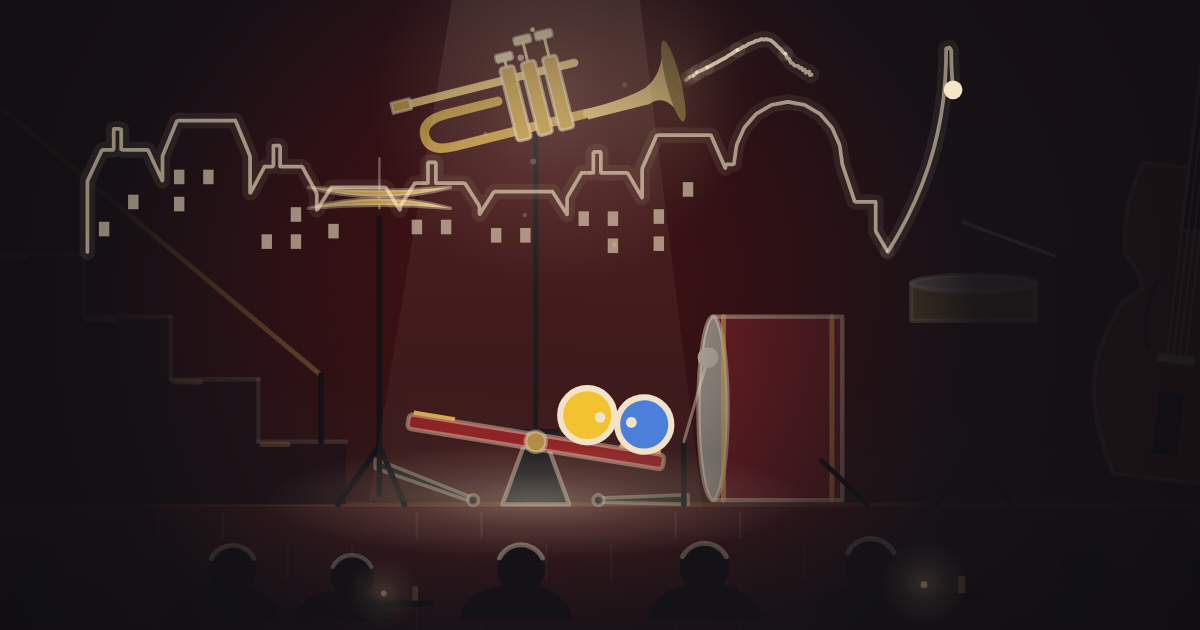
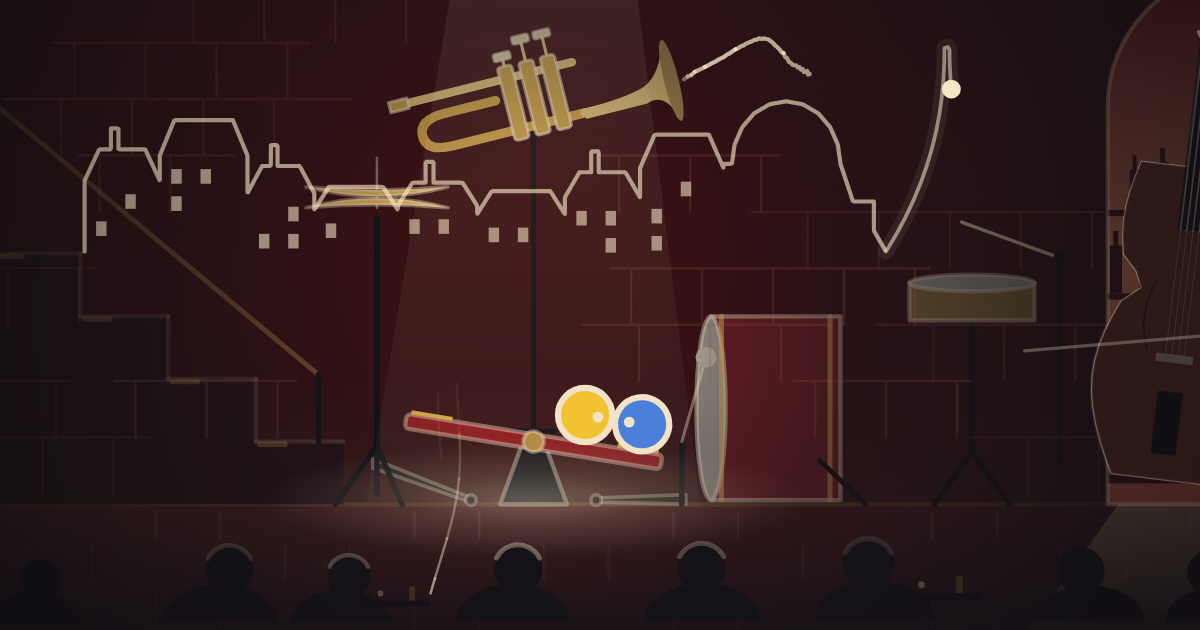
docs(epilogue): SEBS.md has round 68, the fullness pass's first half; the share card made again

diff --git a/apps/rube/src/shows/versions/la-la-land/SEBS.md b/apps/rube/src/shows/versions/la-la-land/SEBS.md
@@ -31,17 +31,17 @@ Every piece is new, and so is every place. Nothing is drawn from Machine's world
 | 61.78 | The hush, the kiss | The orchestra drops out. He floats down off the keys to her while the room goes dark round a pool of light that comes down with him, and they touch in the middle of it on 65.515 as it comes back in. The room lights up. They hop into a red glass cup at the tree's foot; the tree hoists them over its star (the star is the pulley), the cup tips them onto the string of bulbs, and they ride four swags across the ceiling, each lighting on its downbeat. Down the garland, out through the door into the snow as a curtain comes in. |
 | 90.21 | The theatre | Her one-woman show, and the full house the film's version never had: someone in every seat, the backs of their heads rimmed with the stage's light. He runs the theatre from the street in: the marquee blazes, he knocks the stage door open, rides the lift to the fly gallery, and his weight on the counterweight flies the curtain out. She plays in the spotlight, her window coming up behind her with the music, and the view through it passes through the day of her show on her moves: dawn on her roll, blue sky on her leap, dusk as she hops home, night and a moon while the house holds its breath. On the downbeat he is on his feet first, bouncing on the house's claps, and she hops with each row as it rises; the house rises row by row behind him, the paddles clap with the band, a rose lands at her feet, she bows, and more roses come from all over the house on its claps until the stage at her feet is strewn with them, and he leaps up beside her for the curtain call. The house goes to white. |
 | 133.35 | The white studio | A white sound stage, breathing in threes against the dream's 128 bpm. Painted cut-outs rise from the floor on hinges: a palm, radio towers, a round tower, a streetlamp. An old studio camera on its pedestal by the door's flat is shooting them, red light on and lens following him, and a special on the grid is struck on over each cut-out as it stands. The red stage door opens for them on rose light. |
-| 143.64 | Hollywood | The burst (`dream(165)`). A painted sky drops from the flies at the magic hour, banded indigo to magenta to coral to gold, with a setting sun glowing over the mountain's shoulder, a rose far ridge, the mountain shaded with painted contours, and long painted clouds; and colour floods in, the near hill dark in its own shadow with a coral rim along its crest and a hedge of chaparral at its foot: bougainvillea that bounce them, a chorus line in plumes and fringed skirts whose kicking legs kick in unison on the band's brass stabs, a road of the sunset's rose switchbacking up the hill with lamps lighting on the beats, palms painted along the mountain's foot and the observatory on the far ridge, searchlights, and a sign of nine white blocks lighting at the top of the number. Six accelerating hits (166.15 to 167.85), on which the sign turns from white to her yellow, a block a hit from the middle out, all gold on the last: her name in lights, without a letter. Then the lamps go out one by one. |
+| 143.64 | Hollywood | The burst (`dream(165)`). A painted sky drops from the flies at the magic hour, banded indigo to magenta to coral to gold, with a setting sun, a flat painted disc, going down over the mountain's shoulder, a rose far ridge, the mountain shaded with painted contours, and long painted clouds; and colour floods in, the near hill dark in its own shadow with a coral rim along its crest and a hedge of chaparral at its foot: bougainvillea that bounce them, a chorus line in plumes and fringed skirts whose kicking legs kick in unison on the band's brass stabs, a road of the sunset's rose switchbacking up the hill with lamps lighting on the beats, palms painted along the mountain's foot and the observatory on the far ridge, searchlights, and a sign of nine white blocks lighting at the top of the number. Six accelerating hits (166.15 to 167.85), on which the sign turns from white to her yellow, a block a hit from the middle out, all gold on the last: her name in lights, without a letter. Then the lamps go out one by one. |
 | 172 | The audition | Shadow play: a lit screen, and everything but the two of them is a black shape. She plays on a small stage; a desk lamp's arm, a pen and a jug answer her from the casting table; he watches from a chair at the side. The screen floods at the build, and the flooded screen flies out on its batten. |
 | 196 | The globe | An old globe turning in the dark, and a toy biplane on an arm carrying both of them from the Pacific to Europe, its route inked on the map behind it. It is uncovered as the audition's white screen flies out above it. Paris at night; the plane comes down by a red door. |
 | 214.88 | The Paris club | A vaulted red cellar on its own 122.8 bpm comb, and a full house: a row of patrons at the near tables, silhouettes along the foot of the picture with candles on their tables, nodding on the beat. He goes down the stair a step an eighth and lands on the band, which is one machine: a see-saw whose ends work the hi-hat and kick pedals. He bounces it for thirty landings while the trumpet's valves, the snare and the bass play along. Her premiere on the landing: flash guns on scissor arms fire on the beats, the balloon net lets go, and she comes down to ride the other end with him. |
-| 239.44 | The trumpet | The room goes dark but for one spot on the trumpet; its valves go down on the solo's notes, pitch-tracked from the recording, and the lamp flares on its biggest note. Each phrase goes out of the bell as a thread of warm light at the height of its notes, following the melody's contour and not its vibrato, drifting up into the dark and fading, so the solo is written in the air over the two of them; and once each phrase is played it comes down on the bell's open side and slides in under the horn, settling out of its improvised line into a stretch of a gold Paris skyline hung over the band, mansards and chimneys and a dome, its windows lighting as it settles. The last run, as she rolls down to him, draws the tower, foot to spire to foot. By the knock the whole city hangs in the dark; and as the iris opens on painted Paris, the gold line is still along its roofs and up its tower a moment, and goes out as the waltz begins. Through the solo the see-saw is a balance of two: in the solo's rests Mia inches toward him and the beam leans his way. On 264.719 he comes down hard and the beam slams over, and she rolls down it to him. An iris closes on them to a small circle and holds it through the silence; on the second knock (268.655, the loudest onset in the cue) it shuts. |
+| 239.44 | The trumpet | The room goes dark but for one spot on the trumpet; its valves go down on the solo's notes, pitch-tracked from the recording, and on its biggest note the spot's pool widens and brightens on the floor. Each phrase goes out of the bell as a thread of warm light at the height of its notes, following the melody's contour and not its vibrato, drifting up into the dark and fading, so the solo is written in the air over the two of them; and once each phrase is played it comes down on the bell's open side and slides in under the horn, settling out of its improvised line into a stretch of a gold Paris skyline hung over the band, mansards and chimneys and a dome, its windows lighting as it settles. The last run, as she rolls down to him, draws the tower, foot to spire to foot. By the knock the whole city hangs in the dark; and as the iris opens on painted Paris, the gold line is still along its roofs and up its tower a moment, and goes out as the waltz begins. Through the solo the see-saw is a balance of two: in the solo's rests Mia inches toward him and the beam leans his way. On 264.719 he comes down hard and the beam slams over, and she rolls down it to him. An iris closes on them to a small circle and holds it through the silence; on the second knock (268.655, the loudest onset in the cue) it shuts. |
 | 269 | Painted Paris | On the next hit (269.711) the iris opens on painted Paris in ultramarine: the quay, streetlamps, umbrellas opening on the waltz's ONE, a great street clock that strikes, a balloon seller. They waltz round each other, eye to eye, and each step leaves a ring of the lamps' gold spreading on the wet stones under them, the ONE of each bar strongest, so the quay carries a trail of where they have turned. |
 | 297.33 | The stars | The flats fly out, and up through a trap in the dark floor comes the machine of the night: a brass star projector, the kind a planetarium keeps, a lens-studded globe at each end of a tilted axis. It lights as they push off and float up beside it, and it turns geared to their waltz. Each star the melody lights (eleven of them) is thrown from its high globe on a thread of light and lights round them; they float close, in each other's arms. The camera goes far out on the rise, the two of them small under the whole turning sky, and comes in close through the quiet, the two of them filling the frame among the stars. Two broad soft cones of light sweep from its high globe as it turns, slowly while they float and fast in the whirl. It whirls with them up the swell while the sky wheels into star trails, and stops with them on the dip (336.62), where the planetarium's figure round them, a grand piano seen from above in fine gold line, is complete: it has drawn on through the waltz, a stretch for each star the melody lit, and is held through the touch (`piano-figure.ts`). A nebula lies along the galaxy's band, violet and rose and a little teal with a dark lane of dust, swelling as they rise into it. Everything is doubled in the dark glass. As the lights go its lamps go out, a beat before the dark, and the next place opens on another projector's lamp. |
 | 340.5 | The home movie | One star of the sky stays lit through the dark and is the lamp of a projector in a dark room; the camera goes into its picture. Their life on eight-millimetre film, in six shots joined by match cuts (the balls stay put and the world changes round them): the house and the pram, a first birthday with balloons, the beach and a yellow bucket, the pool and the diving board (she cheers him on from the deck), a field of flowers that open as he brushes them, the couch at night. Each shot is a family's film: a summer sky with clouds and birds over the outdoor ones, a tree, hedge and mailbox at the house, bunting and the lemonade table at the party, an umbrella and a sailboat at the beach, a lounger and a rubber ring at the pool, trees along the far hills and butterflies in the field; and at home the room is theirs, his upright piano against the wall, and on it the pictures of the dream's life, their wedding, her show's poster, the two of them in Paris. It looks like eight-millimetre: the picture weaves in the gate frame by frame (the camera carries the weave, so the balls weave too), the stock is faded and warm, its exposure breathes, and scratches run down it now and then. The film runs out, and the bare white of the empty gate fills the frame. |
 | 395.3 | The drive | Out of the gate's white, a freeway jam at night (the film's first scene, rhymed), the cars creeping up in waves on the notes, their brake lights red on the deck. The city beyond is cool towers under a deep sky with its glow on the haze, warm windows and red beacons; and across the basin, under their jam, another freeway is moving, a river of tail lights one way and headlights the other. The exit ramp, the street, sodium lamps coming on ahead of them, and a blue neon arrow that buzzes on over a door. |
-| 423.4 | Seb's, the dream's last room | The same club, warm with the dream's rose, and full: someone on every chair and at the bar, who fade with the rose at the waking. They cross to her table; on the stage the piano plays itself. As they lean in the room goes down round them to one pool of light, the way a pool of light found her there at the start, and they kiss on 450.107; it lets them go as he leaves her side. The rose drains out of the walls and the light, the room is its cold blue again, and he drifts back up to the keys, landing on the last chord (453.73): the dark and the grey close in round him to a spotlight of the dream's colour, the way the dream began at 39, and it shuts. The chord rings on him, and the picture cuts to her table: her eyes stay on the empty seat beside her, and David comes back from the bar and sits down in it. |
-| 453.73 | Seb's, now | Silence. David has come back to her table. They go to the door, he out onto the pavement, she as far as the doorway, where she stands framed in the night outside, the neon's blue low in it. In close shots cut against each other, as in the film: she turns back from the doorway, he looks up, she smiles, he nods. The End comes in (464) and she is gone; the door shuts on its note (467.866). The band's lamps come up behind him (471.546); he nods the count-in; on the band's first hit (478.05) the stage blazes and the camera draws back out of the club, over its roof, to the whole city of stars, where searchlights sweep. The credits come up in the sky. On The End's orchestra (496.27) the searchlights flare, the city brightens with the swell and the glow of it on the haze warms with the orchestra, holding through the last chord and settling as it dies away, the observatory on its ridge lights, the sign on the far hills, pale over the city at the start, lights in her yellow a block at a time from the middle out, as it did at the top of the Hollywood number (her name in lights: what the dream gave her, she has), their constellation from among the stars comes out over the city star by star, and once the last is out the gold piano from the dip draws itself round them again, plays The End's last chord (its keys light and its stars flare), and holds to the last frame, and the beams cross on the last chord. |
+| 423.4 | Seb's, the dream's last room | The same club, warm with the dream's rose, and full: someone on every chair and at the bar, who fade with the rose at the waking. They cross to her table; on the stage the piano plays itself. As they lean in the room goes down round them to one pool of light, the way a pool of light found her there at the start, and they kiss on 450.107; it lets them go as he leaves her side. The rose drains out of the walls and the light, the room is its cold blue again, and he drifts back up to the keys, landing on the last chord (453.73): the dark and the grey close in round him to a spotlight of the dream's colour, the way the dream began at 39, and it shuts. The chord rings on him in the dark, and the dark opens again, an iris, on her table: her eyes stay on the empty seat beside her, and David comes back from the bar and sits down in it. |
+| 453.73 | Seb's, now | Silence. David has come back to her table. They go to the door, he out onto the pavement, she as far as the doorway, where she stands framed in the night outside, the neon's blue low in it. In close shots cut against each other, as in the film: she turns back from the doorway, he looks up, she smiles, he nods. The End comes in (464) and she is gone; the door shuts on its note (467.866). The band's lamps come up behind him (471.546); he nods the count-in; on the band's first hit (478.05) the stage blazes and the camera draws back out of the club, over its roof, to the whole city of stars, where searchlights sweep. The credits come up in the sky. On The End's orchestra (496.27) the searchlights open up, the city brightens with the swell and the glow of it on the haze warms with the orchestra, holding through the last chord and settling as it dies away, the observatory on its ridge lights, the sign on the far hills, pale over the city at the start, lights in her yellow a block at a time from the middle out, as it did at the top of the Hollywood number (her name in lights: what the dream gave her, she has), their constellation from among the stars comes out over the city star by star, and once the last is out the gold piano from the dip draws itself round them again, plays The End's last chord (its keys light and its stars step up), and holds to the last frame, and the beams cross on the last chord. |
 
 ## The music
 
@@ -128,7 +128,7 @@ Each part is handed a slot (the show time the ball arrives, the time it must lea
   - `camera.ts`: the director, a monotone cubic through the parts' keys.
   - `music.ts`: the clock read from the onset file. `hits.ts`: every strike, gathered.
   - `worlds.ts`: the cast and each place's palette. `city.ts`: the city of stars. `credits.ts`: the end credits.
-  - The parts, one folder a place: `club/` (the piano, the room, the opening, the finale; `geometry.ts` fixes the piano's numbers), `liptons/`, `theatre/`, `studio/`, `audition/`, `paris/`, `night/`, `movie/`.
+  - The parts, one folder a place: `club/` (the piano, the room, its people, the opening, the finale; `geometry.ts` fixes the piano's numbers), `liptons/`, `theatre/`, `studio/`, `audition/`, `paris/`, `night/`, `movie/`.
 - **Shared infra**, byte for byte the same as Liftoff's (#88), so either can land first:
   - `Framing.angle` and the roll in `drawWorld`, which this take does not use;
   - `Performance.titles` and the page's words layer, for the credits;
@@ -561,3 +561,49 @@ Watching again after Round 66, the first kiss stood out as the weakest of the sh
 - **The share card, made again.** The card a link to the show unfurls with (`public/shows/la-la-land/opus5-5.png`, its frame at 266.15) was older than Round 64, and still had the trumpet's beads and the grain that round cut. It is the show's own frame again, with the smoothed thread (Round 66): only this take's card; the Shows page's own card uses another take's.
 - **Checked:** the full `check:shows` (every star lit in the picture, the piano whole at the dip and over the city), and frame cost in Chrome on the GPU (1600 by 900 at 2×): 1 to 3 ms a frame through the hush and the stars.
 
+
+## Round 68: the fullness pass, first half
+
+Stephen's brief: fuller and more impressive, from substance and not gloss. Every place is filled with what would be in it, in layers that move at their own speeds; nothing stands still; the light comes from somewhere and falls on something; the final third is the busiest; and the shine the show still had is cut. The song, its clock, the lanes and every strike are untouched.
+
+How it was judged: ten frames evenly spaced, then a frame every four seconds, and a meter run over the whole show every two seconds that counts the share of the 16 to 9 picture that is both flat (no detail in a block) and unchanging over a quarter second. Before the round, 40 of its 255 samples had more than a third of the picture dead; after it, 11, of which 6 are covers (the cloth, the white, the iris, the dark with one star, the empty gate) and the rest are the dark start at her table (23, 25), the trumpet's spot at 243 and 245, and her 0.7 s close shot in the doorway (463).
+
+**The room as it is (0 to 39.65, 453.73 to 510).** Seb's is a working club late at night, in its cold grade: a bartender polishing and moving along the bar, a waiter with his tray, a couple at the middle table, a man smoking at the bar, people who sip now and then and glance at the stage. Framed photographs of the greats hang between the sconces (shapes, no faces, no letters), the wall above the wainscot is brick, two ceiling fans turn and the curtain's folds stir in their air. A house spot over the floor is the light that finds her at her table, and her table's candle throws her and David on the wall behind them, leaning in as they lean in. Along the foot of the picture are the heads and shoulders of the house nearest us, sliding a third faster than the room as the camera moves, nodding on the piano's strong notes. The band is on its break; at the end it takes its places in the dark after she has gone, the drummer clicking his sticks on Seb's count-in nods, and plays from the band's first hit.
+
+**The dream's last room (423.4 to 453.73).** Every chair and stool is taken, a second waiter crosses, and the band plays soft beside the piano that plays itself; the camera draws back along the stage to find it (438 to 440.9), and the kiss is a slow push from the next table down to the two of them (444.9 to 451.3). When the rose drains, the dream's extra people go with it and only the late-night few are left: they were there all along.
+
+**The waking.** The cut from him at the keys to her table is an iris: the circle closes on him, shuts, and opens on her table.
+
+**Lipton's (39.65 to 90.21).** Someone at every table (a couple, a mother and her small son kneeling up on his chair, two old friends), each lit along one side by their table's lamp, turning to watch her cross, to the stage when the room lights, and up as the two ride the bulbs over them. A waiter goes table to table and stands still in the hush. A coat rack by the door is heavy with coats; people pass in the snow outside. Paper snowflakes hang from the ceiling and swing as the two ride past. The near tables' edges slide along the foot of the picture. The ride's accents are motion now, not flares: the star rocks on its pin, the bulb he passes jumps on its flex, the string's pulse is a ripple down it.
+
+**The theatre (90.21 to 133.35).** The street outside has a newsboy holding up a blank paper on the beat, a couple stopping under the marquee as it blazes, a man in a hat hurrying the other way, a parked car, someone crossing a lit room across the road, and a cat on a sill. In the wing three more rope sets sway when the lift clacks into the gallery. In the close shots of her show boxes stand at both edges of the house, their people leaning toward her, gone for the empty house, and standing to clap. The hold at the curtain calls is a slow push-in.
+
+**The white studio (133.35 to 143.64).** The stage at work, in its own greys: a far rank of taller flats upstage, one walked across behind the set a step at a time; the work lights' cables looping off the pipe; a stepladder with a paint can; a boom mic that comes in from the top, follows him with a lag and dips on each cut-out's phrase head; the empty director's chair nearest us.
+
+**Hollywood (143.64 to 172).** The marine layer comes in at dusk: long cut-out wisps on wires drift across the mountain's flank and the sky, their tops lit by the sunset; the painted palms stir in a breeze that runs along the row, and the chaparral at the hill's foot stirs with it.
+
+**The audition (172 to 196).** The screen is the casting office's wall, every piece of it a shadow whose value says how far it stands from the screen: faintest, the window's sun through its blind, a palm frond stirring beyond, dimmed by a cloud while the music holds its breath; in grey, a ceiling fan turning and a wire clock whose second hand steps on every metronome stop, and the casting panel behind their table (one turns a page, one sips, one leans in, chin on hand, when the lamp finds her, and all three nod as the pen signs); in black, a coat stand whose coat swings when he leaps and a water cooler with a bubble going up; nearest us, a fern that moves more than the screen. The hold is a push-in as the lamp comes round to her.
+
+**The globe (196 to 214.88).** The globe hangs in the night the flight crosses, staged like a theatre's sky: a paper crescent moon on its wire, the light the globe's lit side and the clouds' edges have; painted cloud cut-outs on wires at three depths, streaming back past the plane, the near bank low in front of the globe the fastest; the far ones pass behind Paris's roofs once the city lights.
+
+**The Paris club and the trumpet (214.88 to 269).** Under the landing the dark is the cellar's other room: tables, candles, people nodding, a couple dancing a step and dip a beat. Through the solo the spot's light falls off slowly, so the cellar is still there in the dark: its brick, its vault, the band's things near the light. An archway behind the bass opens on the bar beyond; the bass player bows long notes under the trumpet, turning his bow on each phrase's first note; the waiter stands stopped mid-step in the arch and eases on in the breaths; a thin curl of smoke shows where it climbs through the spot's shaft. The camera draws back through the solo to show the room and pushes in for the knock.
+
+**Painted Paris (269 to 297.33).** A bateau-mouche goes down the river with lit windows, between the far bank and the quay in depth; people stroll the far bank under umbrellas; painted clouds slide on wires across the sky drop.
+
+**The stars (297.33 to 340.5).** The planetarium is a room now. As the Paris roofs fly out, Los Angeles stands round the foot of the dome, as Griffith's has it: low hills, a downtown, palms whose fronds stir, the observatory on its hill, all in the glass. The front row of seats comes up through the floor in a wave out from the projector after they push off, the sky's light along its headrests, sliding faster than the room. A red planet turns with the sky; a ringed one drifts over the two of them in the quiet and goes before the swell, clear of the gold piano. Meteors cross on the waltz's onsets, fine fading lines, three of them up the swell. A tiled field of faint stars lags the camera a little, so the sky has depth.
+
+**The home movie (340.5 to 395.3).** The dark room has an empty armchair turned to the screen, a cup on a little table and two frames on the wall caught by the picture's light. In the film: a sprinkler swinging over the lawn; at the party two pinwheels and a dog that goes after the lid, jumps at the balloons and sits by the high chair for the candle; at the beach the swell rolling in, boats tacking, a kite on a long string, the boy's sandcastle and a crab; a light plane over the pool; a wind pump and a little train in the field; at home the curtains stirring and a ginger cat asleep on the rug.
+
+**The drive (395.3 to 423.4).** Beyond the far rail the other carriageway runs free the other way, its headlamps lighting the road ahead: the jam is stuck, the other way never stops. A Metro viaduct carries two trains, lit windows and passengers in silhouette, one passing behind the two of them while she leans in. A second road of lights lies further across the basin; planes come down in a line with steady landing lights; the roofs have water tanks and two billboards lit from below (a sunset over the sea, and her picture's poster: a dancer in a yellow dress on rose; no letters). Three people talk under the club's window, and nearest of all a sidewalk with meters, a fire plug and lamps goes by fastest.
+
+**The city (the first seconds, and 478 to the end).** The city is going somewhere: cars along the boulevards and seven cross streets, white coming and red going; a freeway sweeping round into downtown; a train across the basin; planes coming in; homes lit on the far hills' lower slopes and a road up them. It escalates: at the start it is late and quiet, a few cars; from the band on it fills, each car, plane and home by its own threshold, and it is fullest as The End's orchestra climbs (486 to 500).
+
+**The shine, cut.** The halos and four-point glints on the stars everywhere (the planetarium's, the city's, the one star the dark leaves at 339, which is a steady point), the lit stars kept as points in the close shots; the halos round bulbs, lamps, sconces, the neon, the marquee, the sign's blocks, the painted sun, the globe and the windows, each light now shown by what it lights (a pool on the road or the pavement, the wallpaper above a sconce, the hillside under the sign); the flares and flashes on strikes, which are motion or a change of state now; the searchlights' flare on the orchestra, which is an opening up; the tally light's pulse, the specials' strike flash, the cities' cross-flares on the globe, the tower's shimmer, the glinting motes, the bell's glow and the struck strings' glow.
+
+**Escalation, measured.** The meter's flat share is 22% over the first third, 23% over the second, 18% over the last; the drive went from 27% to 14%, the dream's last room from 25% to 14%, the city from 22% to 15%. The opening's room stays the quietest place in the show by intent, and the end is the fullest.
+
+**New files.** `club/people.ts` (the club's people, both rooms), `night/planetarium.ts` (the cove, the seats, the planets, the meteors), `movie/movie-life.ts` (the home movie's life).
+
+**Checked.** The full `check:shows` and the build. Frame cost in Chrome on the GPU (1600 by 900 at 2×, every quarter second of the show, 2,041 frames, frame rate uncapped): JS paint median 1.0 ms and p95 2.2 ms (0.8 and 1.8 before); frame interval median 1.2 ms, p95 2.6 ms, worst 16.9 ms on the first frame painted. The baseline's 17 to 24 ms intervals at 490 to 501 are gone (a gradient made for every bright star every frame, and per-dot allocations).
+
+**Left for the second half.** The dark start at her table (23 to 25) and the doorway's close shots; the stars' close shot in the quiet, still mostly open sky; the pool's flat deck and water in the home movie; the audition's black floor band; Lipton's upper wall in the close ride shots; the theatre's car, which could drive.
